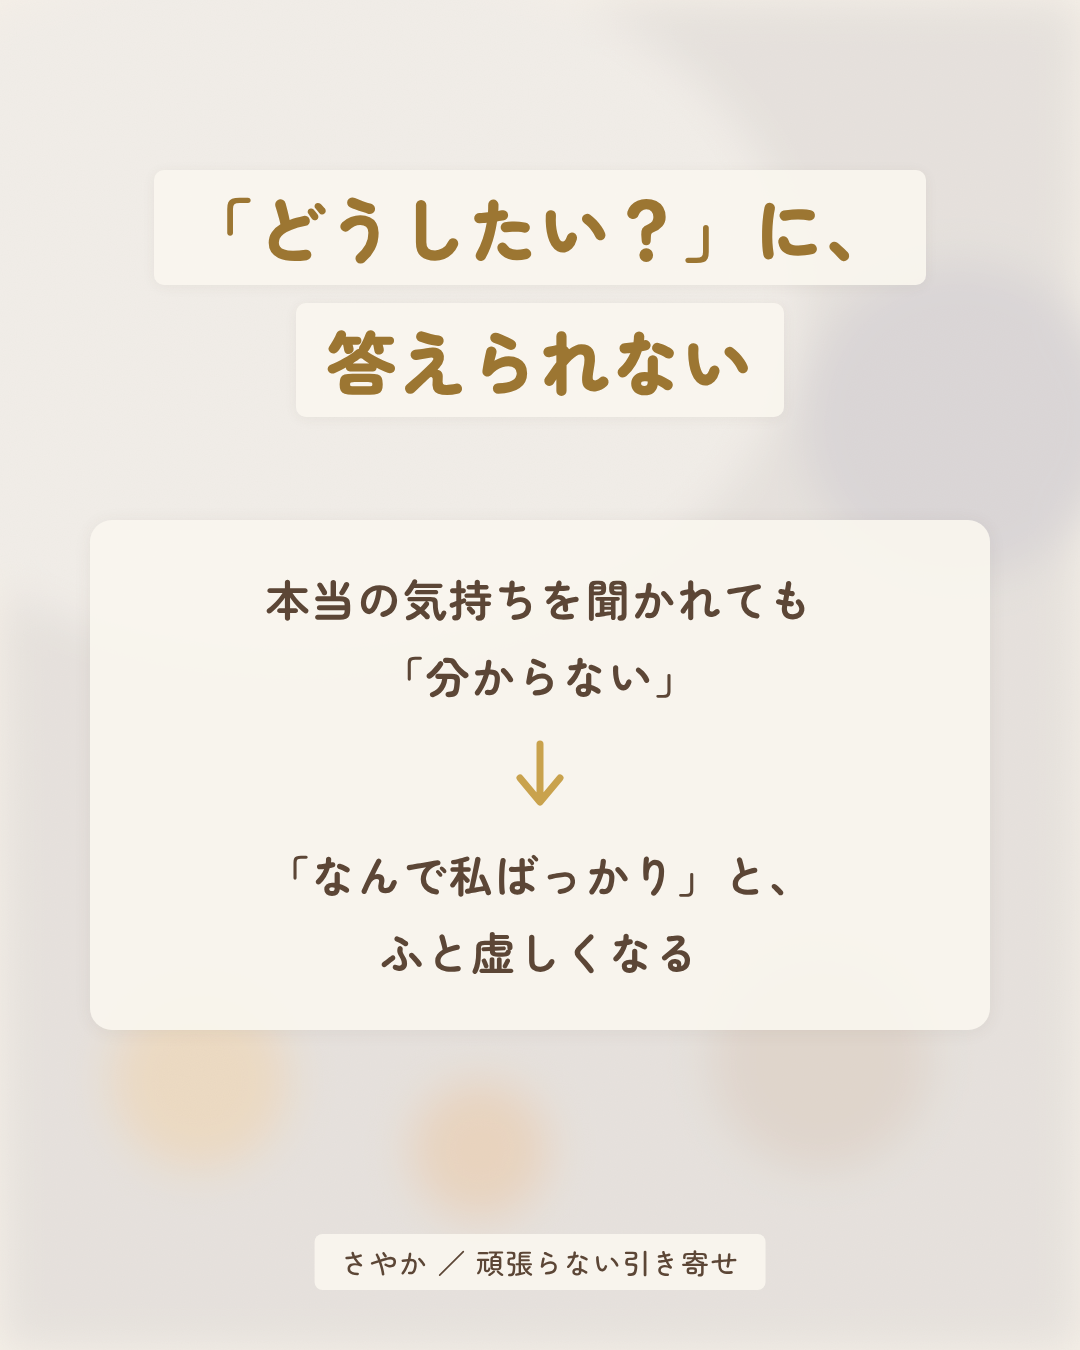
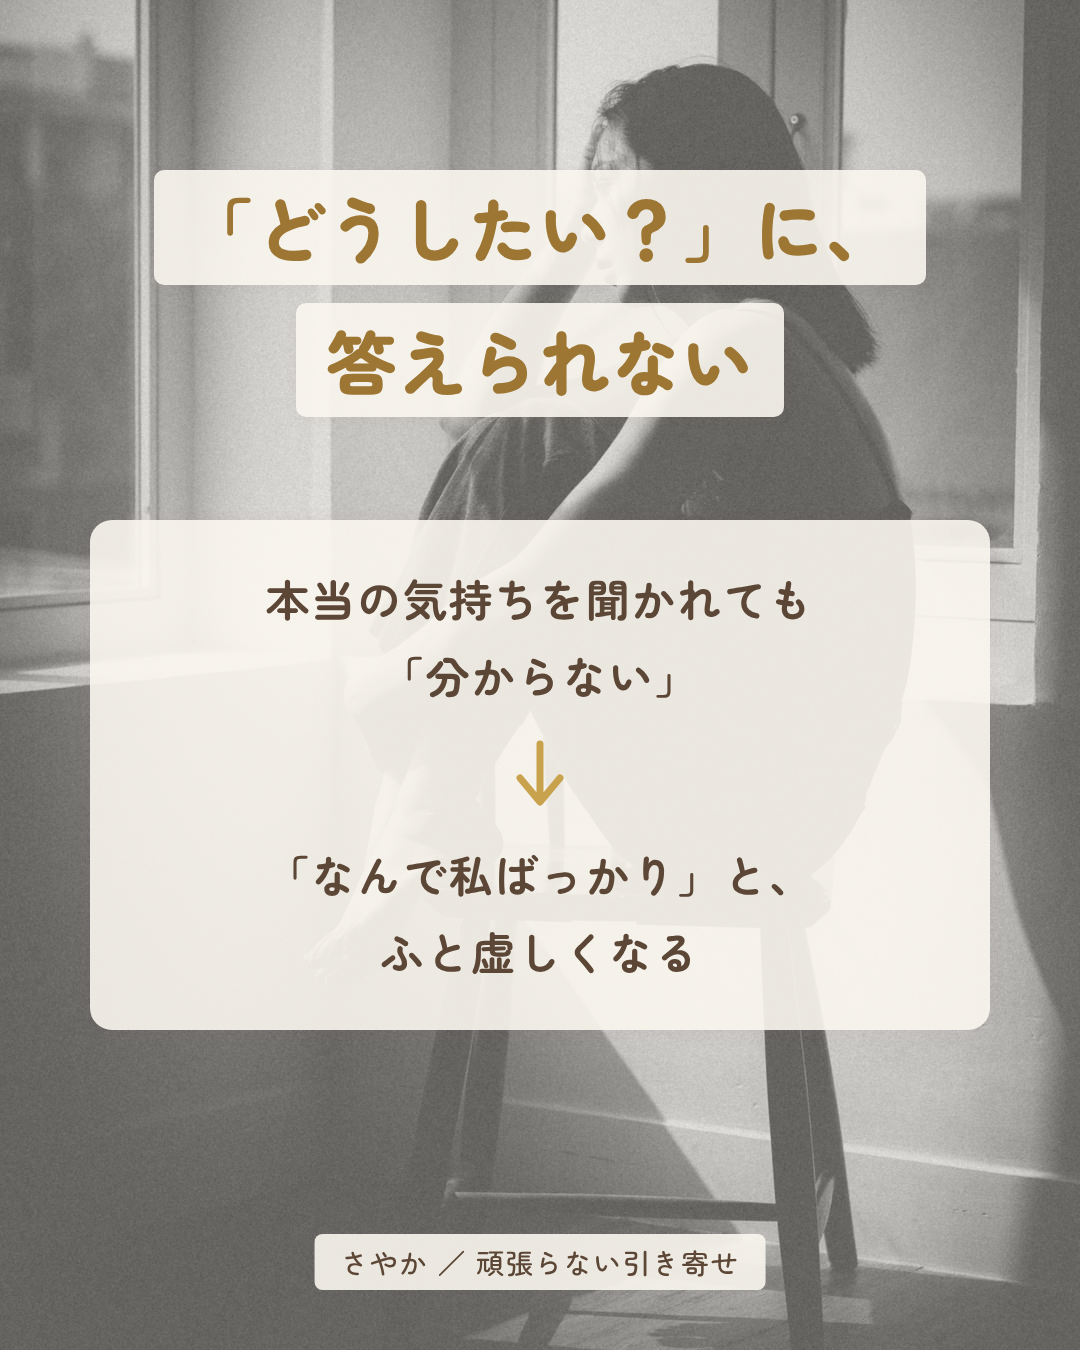
Use the user's photos as carousel backgrounds and switch brand colors to the feed palette
Claude-Session: https://claude.ai/code/session_01YUXq2WjFGxvpb1f5f2asyh

diff --git a/carousel/hasegawa_10p/slides.html b/carousel/hasegawa_10p/slides.html
@@ -24,7 +24,7 @@
   .bg { position: absolute; inset: 0; width: 100%; height: 100%; }
   /* 写真を使うときは photo/pXX.jpg を置くと背景に敷かれる */
   .photo { position: absolute; inset: 0; background-size: cover; background-position: center; }
-  .veil { position: absolute; inset: 0; background: rgba(248, 243, 234, .38); }
+  .veil { position: absolute; inset: 0; }
   .abs { position: absolute; }
   .stack { position: absolute; left: 0; right: 0; display: flex; flex-direction: column; align-items: center; gap: 18px; }
   .pill {
@@ -84,7 +84,7 @@
 </svg>
 
 <!-- 1P 表紙 -->
-<section class="slide" data-bg="desk">
+<section class="slide" data-bg="desk" data-veil=".15">
   <div class="stack" style="top:440px;">
     <div class="pill b" style="font-size:46px;">本音が分からない人へ</div>
     <div class="pill g" style="font-size:76px;">「どうしたい？」に</div>
@@ -249,7 +249,7 @@
     const n = String(i + 1).padStart(2, '0');
     s.insertAdjacentHTML('afterbegin',
       `<svg class="bg" viewBox="0 0 1080 1350" preserveAspectRatio="xMidYMid slice"><g filter="url(#soft)">${scenes[s.dataset.bg]}</g><rect width="1080" height="1350" filter="url(#grain)"/></svg>` +
-      `<div class="photo" style="background-image:url('photo/p${n}.jpg')"></div><div class="veil"></div>`);
+      `<div class="photo" style="background-image:url('photo/p${n}.jpg')"></div><div class="veil" style="background:rgba(248,243,234,${s.dataset.veil || .35})"></div>`);
     s.insertAdjacentHTML('beforeend', '<div class="brand">さやか ／ 頑張らない引き寄せ</div>');
   });
 

diff --git a/hasegawa_instagram_carousel_10p.md b/hasegawa_instagram_carousel_10p.md
@@ -1,6 +1,6 @@
 # 長谷川 彩矢香さん｜Instagramカルーセル原稿（10P）と画像生成プロンプト
 
-- 状態：初稿（10Pの案内内容・特典は仮／本人確認が必要。ブランドカラーは2026-10-18に本人が確定）
+- 状態：初稿（10Pの案内内容・特典は仮／本人確認が必要。ブランドカラーは2026-10-25に既存の投稿の色へ変更）
 - 作成日：2026-10-18
 - 画像は生成していません（プロンプトのみ）
 
@@ -36,6 +36,8 @@
 ---
 
 ## 2. ブランドカラー（確定）と常設タグ
+
+> **2026-10-25 変更**：本人の判断で、ブランドカラーは既存の投稿の色（生成り・金・茶）に変更した。画像は 生成り #F8F3EA／見出しの金 #9C7632／本文の茶 #5C4636／差し色の金 #C9A24D で作っている（第8章）。この章の下の表（ダスティローズ）は変更前の記録として残す。
 
 ブランドカラーは1番「ダスティローズ」で本人が確定（2026-10-18）。メイン #C97B8E・ベース #F7F1E8・アクセント #C9A24D・サブ #B7A4C4・文字 #5C3A44。薄い面の #EBDDDA は、メインをベースになじませた濃淡。背景は生成り基調で、ダーク背景は使わない。
 
@@ -444,4 +446,4 @@
 | 色 | ダスティローズ中心 | 生成り・金（見出し #9C7632）・茶（本文 #5C4636） |
 | 文字 | 極太ゴシック | 丸ゴシック（Zen Maru Gothic） |
 | ブランド表記 | 右上「自己解放×自己愛の講師」 | 下中央「さやか ／ 頑張らない引き寄せ」（既存の投稿と同じ） |
-| 背景 | 生成り＋水彩の挿絵 | ぼかした光の背景（写真の代わり）。`photo/p01.jpg` などを置くと本人の写真に差し替わる |
+| 背景 | 生成り＋水彩の挿絵 | 本人が選んだ写真9枚（`photo/p01.jpg`〜`p10.jpg`。8Pは1Pの菜の花の下側を使用）に、生成りの薄い膜を重ねる |
